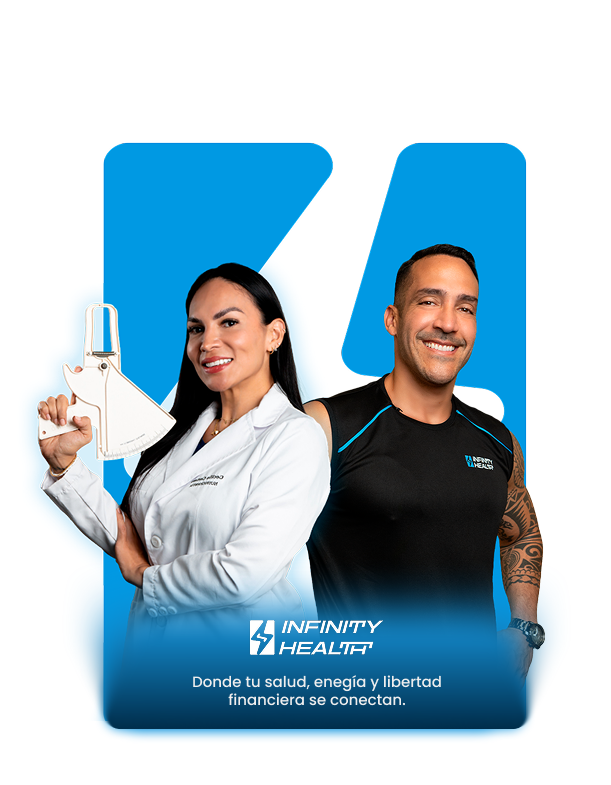
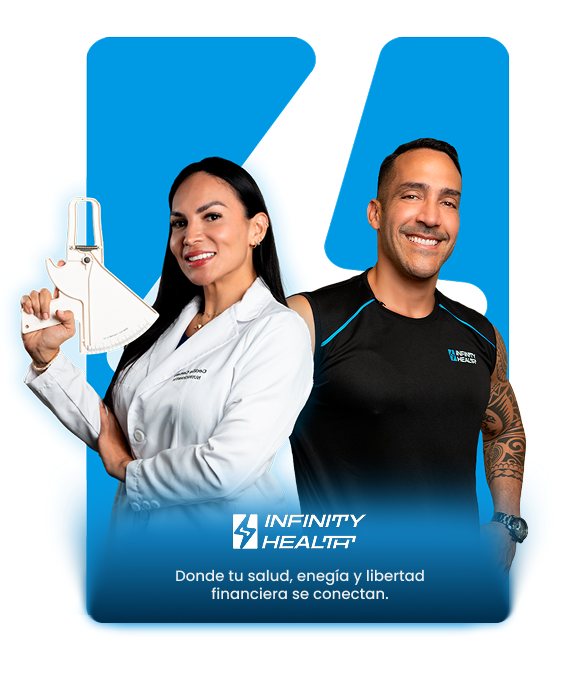
feature: change desktop img

diff --git a/src/features/auth/components/LoginForm.tsx b/src/features/auth/components/LoginForm.tsx
@@ -49,15 +49,15 @@ export default function LoginForm() {
         className="bg-white rounded-3xl shadow-none p-6 md:p-0 flex flex-col gap-4"
         autoComplete="off"
       >
-        <h2 className="text-2xl md:text-3xl font-bold text-center mb-2 text-[var(--color-primary-dark)]">
+        <h2 className="text-xl font-bold text-center mb-2 text-text">
           Inicia sesión en tu cuenta
         </h2>
-        <p className="text-center text-gray-500 mb-2 text-sm md:text-base">
+        <p className="text-center font-semibold text-text-muted mb-2 text-sm md:text-base ">
           Por favor ingresa tu usuario y contraseña
         </p>
         {/* Usuario */}
         <div>
-          <label htmlFor="username" className="block text-sm font-medium text-gray-700 mb-1">
+          <label htmlFor="username" className="block text-sm font-semibold text-text-soft mb-1">
             Usuario
           </label>
           <input
@@ -79,7 +79,7 @@ export default function LoginForm() {
         </div>
         {/* Contraseña */}
         <div>
-          <label htmlFor="password" className="block text-sm font-medium text-gray-700 mb-1">
+          <label htmlFor="password" className="block text-sm font-semibold text-text-soft mb-1">
             Contraseña
           </label>
           <input

diff --git a/src/features/auth/pages/LoginPage.tsx b/src/features/auth/pages/LoginPage.tsx
@@ -6,13 +6,13 @@ export default function LoginPage() {
       className="min-h-screen flex items-center justify-center bg-cover bg-center px-2"
       style={{ backgroundImage: "url('/img/login-desktop-bg.png')" }}
     >
-      <div className="w-full max-w-4xl bg-white rounded-3xl shadow-lg flex flex-col md:flex-row overflow-visible relative">
+      <div className="w-full max-w-6xl bg-white rounded-3xl shadow-lg flex flex-col md:flex-row overflow-visible relative">
         {/* Imagen y branding */}
         <div className="hidden md:block md:w-1/2 h-[500px] relative z-10">
           <img
             src="/img/login-desktop.png"
             alt="Infinity Health"
-            className="absolute left-[45%] top-1/2 -translate-x-1/2 -translate-y-1/2 w-[130%] h-[134%] object-cover"
+            className="absolute left-1/2 top-1/2 -translate-x-1/2 -translate-y-1/2 w-[100%] h-[120%] object-contain border-2"
           />
         </div>
         {/* Formulario */}
